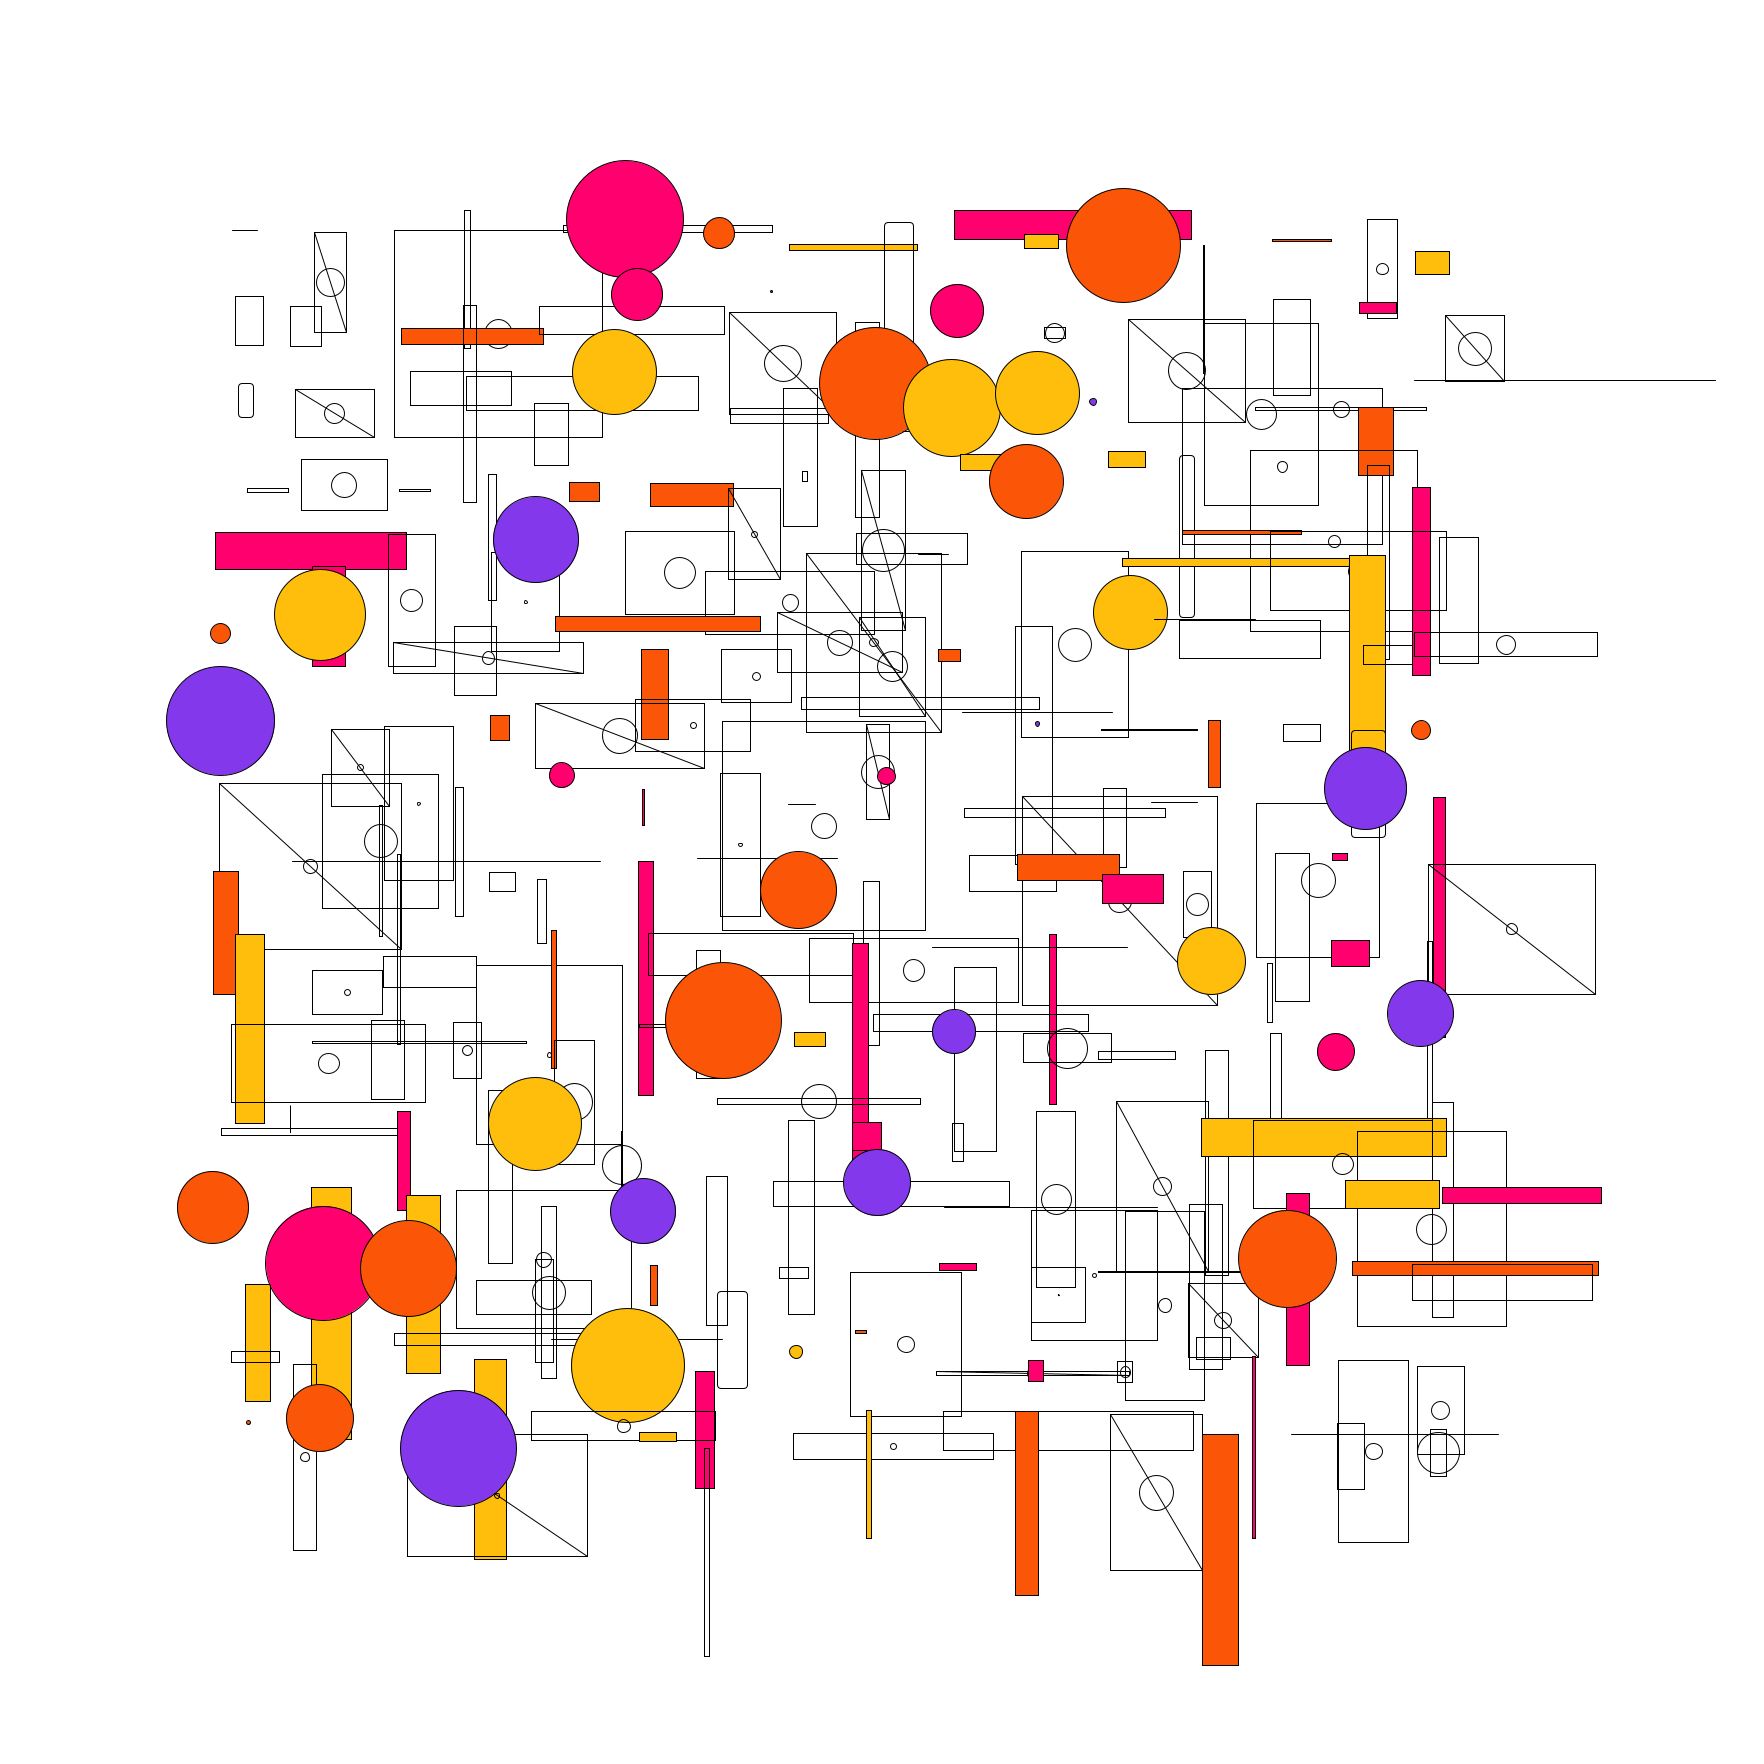
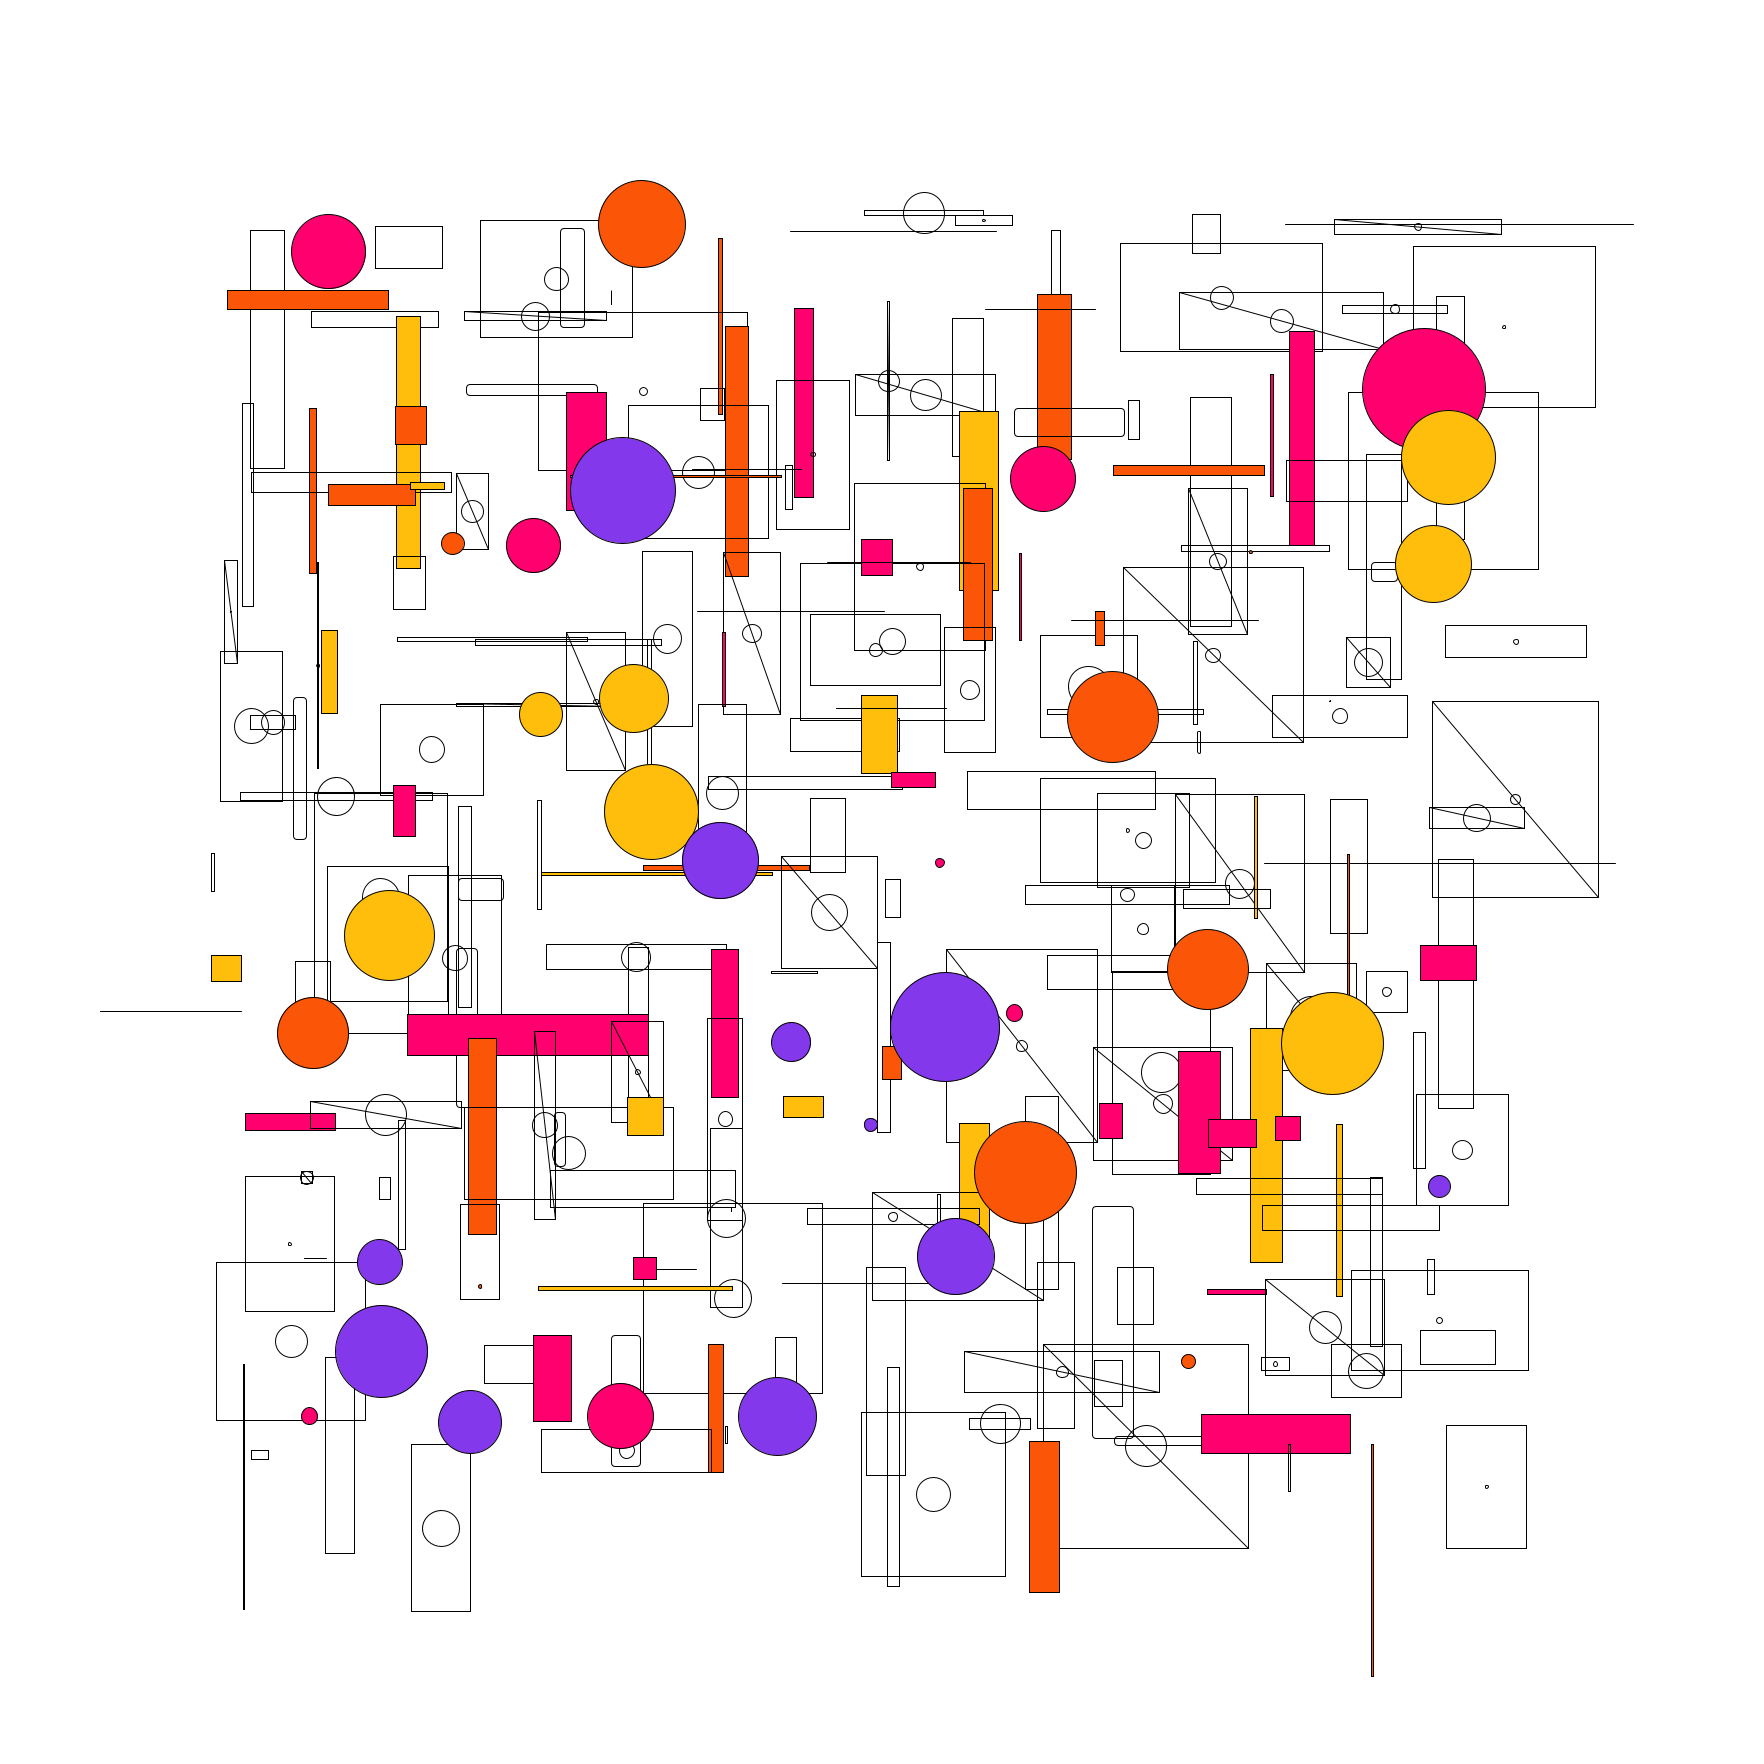
update generative art

Changed region(s): [[0.0935, 0.0935, 0.9042, 0.9666], [0.8107, 0.8107, 0.8418, 0.8418]]

diff --git a/schematic005/CR001/src/main/java/art/studio/App2.java b/schematic005/CR001/src/main/java/art/studio/App2.java
@@ -6,14 +6,14 @@ public class App2 extends PApplet
 {
 
     //yellow, orange, pink, purple, blue, green
-color[] palette = {#FFBE0B,#FB5607,#FF006E,#8338EC,#3A86FF,#38B000};
+float[] palette = {0xFFBE0B,0xFB5607,0xFF006E,0x8338EC,0x3A86FF,0x38B000};
 
-int w = 42*42;
+int w = 42*21;
 int inW = 5*42;
 int maxinW = 35*42;
 int hor=inW;
 
-int h = 42*42;
+int h = 42*21;
 int inH = 5*42;
 int maxinH = 35*42;
 int vert=inH;
@@ -23,22 +23,24 @@ float y;
 int radius=0;
 float choice;
 float orientation;
-float col;
+Float col;
 int count=0;
 
-void settings(){
+@Override
+public void settings(){
   size(w,h);
 }
 
-void setup() {
+@Override
+public void setup() {
   frameRate(1);
-  fill(#000000);
+  fill(0x000000);
   noLoop();
 }
 
 
-void draw() {
-  background(#FFFFFF);
+public void draw() {
+  background(0xFFFFFF);
   while (vert<maxinH){
     while (hor<maxinW){
       x=random(hor,hor+42);
@@ -57,7 +59,8 @@ void draw() {
 
 void shape(float x, float y){
   col = random(3);
-  fill(palette[int(col)]);
+  fill(palette[col.intValue()]);
+  System.out.println(Integer.toHexString(Float.floatToIntBits(palette[col.intValue()])).toUpperCase());//Integer.toHexString(Float.floatToIntBits(palette[col.intValue()])).toUpperCase()
   if (choice<42){//draw rectangle
     rectangle(x,y);
   }
@@ -88,7 +91,8 @@ void rectCircle(float x, float y){
   rect(x,y,xStep,yStep);
   float xCenter = x+xStep/2;
   float yCenter = y+yStep/2;
-  circle(xCenter,yCenter,random(42));
+  float radius = random(42);
+  ellipse(xCenter,yCenter,radius,radius);
   if (random(21)<7){
     line(x,y,x+xStep,y+yStep);
   }
@@ -100,13 +104,14 @@ void lin(float x, float y){
 }
 
 void circ(float x, float y){
-  if (choice>80) {fill(#8338EC);}
-  circle(x,y,random(42*3));
+  if (choice>80) {fill(0x8338EC);}
+  float radius = random(42*3);
+  ellipse(x,y,radius,radius);
 }
-	public static void main(String[] args){
+public static void main(String[] args){
 		String[] processingArgs = {"MySketch"};
-		App mySketch = new App();
+		App2 mySketch = new App2();
 		PApplet.runSketch(processingArgs, mySketch);
-	}
+}
 
 }

diff --git a/schematic005/CR001/src/main/java/art/studio/SL001.java b/schematic005/CR001/src/main/java/art/studio/SL001.java
@@ -58,7 +58,7 @@ public class SL001  extends PApplet {
         g = constrain(g, 0, 256);
         b += random(-cChange, cChange);
         b = constrain(b, 0, 256);
-        fill(r,g,b,random(50,100));
+        fill(r,g,b,random(90,130));
         strokeWeight(random(7));
         stroke(255,255,255);
         radius=random(10,30*(float)(angle*0.8)); //size of radius is random and also related to the angle

diff --git a/schematic005/CR001/src/main/java/art/studio/Practice003.java b/schematic005/CR001/src/main/java/art/studio/Practice003.java
@@ -31,6 +31,7 @@ public class Practice003  extends PApplet {
     }
 
     // simple function that draws points along a spiral, 6 circles, clocwise, changing color randomly
+    // the orientation of the spiral is determined by angle
     public void spiral3(float rotate) {
         float step = (float) (2 * Math.PI / 300);
         System.out.println("rotate: "+rotate+"r : "+r+" g :"+g+" b "+b);

diff --git a/schematic005/CR001/src/main/java/art/studio/Schotter.java b/schematic005/CR001/src/main/java/art/studio/Schotter.java
@@ -19,7 +19,7 @@ public class Schotter extends PApplet {
     @Override
     public void setup() {
         frameRate(1);
-//        noLoop();
+        noLoop();
     }
 
     @Override
@@ -36,6 +36,7 @@ public class Schotter extends PApplet {
             row(seed);
             seed=seed+5;
         }
+        save("Schotter.png");
     }
 
     public void row(float seed){

diff --git a/schematic005/CR001/src/main/java/art/studio/App.java b/schematic005/CR001/src/main/java/art/studio/App.java
@@ -10,6 +10,7 @@ public class App extends PApplet
 	
 	public void draw(){
 		ellipse(mouseX, mouseY, 50, 50);
+		fill(000000);
 	}
 	
 	public void mousePressed(){
